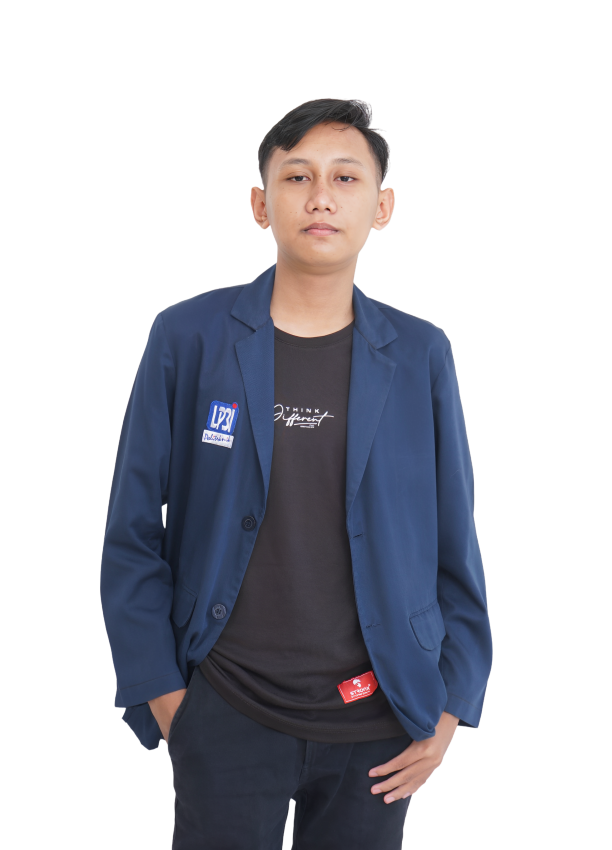
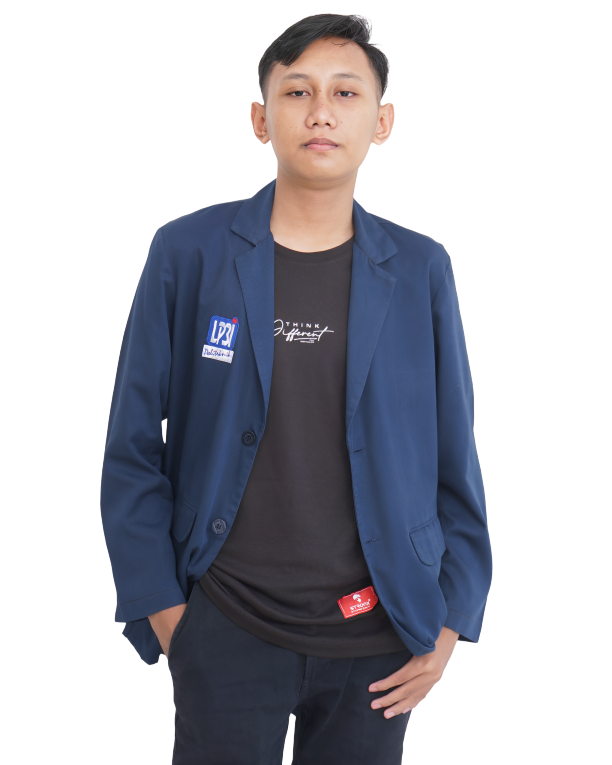
selesai membuat section hero dan header

Changed region(s): [[0.1552, 0.0, 0.8072, 0.9621], [0.5588, 0.5712, 0.5899, 0.7216], [0.4657, 0.932, 0.4967, 0.9621]]

diff --git a/src/pages/home.jsx b/src/pages/home.jsx
@@ -6,94 +6,107 @@ const HomePage = () => {
   return (
     <>
       <Navbar />
-      <section className="bg-second pt-20">
-        <div className="container">
-          <div className="flex">
-            <div className="relative w-full px-5 self-center">
-              <div className="w-full">
-                <h3 className="font-poppins font-medium text-2xl text-dark text-center">
-                  I'm{" "}
-                </h3>
-                <h1 className="font-poppins font-bold text-3xl text-accent text-wrap text-center">
-                  <span className="relative before:content-[''] before:absolute before:-bottom-1 before:w-full before:h-[3px] before:bg-primary">
-                    Gifari Fajar
-                  </span>{" "}
-                  Maulana
-                </h1>
-              </div>
-              <div className="relative mx-auto w-60 image-container">
-                <img src={my_photo1} alt="" className="w-full mx-auto" />
-              </div>
+      <section className="bg-second pt-24 lg:h-screen lg:pt-20">
+        <div className="container mx-auto lg:h-full">
+          <div className="relative w-full px-5 self-center md:px-10 lg:h-full lg:px-20 lg:flex xl:px-24">
+            <div className="w-full relative mb-5 text-center z-10 lg:w-1/2 lg:flex lg:flex-col lg:justify-end lg:text-left lg:pb-48 xl:pl-2">
+              <h3 className="font-poppins font-medium text-2xl text-dark lg:text-3xl lg:mb-3 xl:font-semibold xl:text-4xl">
+                I'm{" "}
+              </h3>
+              <h1 className="font-poppins font-bold text-3xl text-accent text-wrap md:text-4xl lg:text-5xl lg:tracking-wider xl:text-6xl">
+                Gifari Fajar Maulana
+              </h1>
+            </div>
+            <div className="hidden lg:block lg:absolute lg:top-72 lg:left-1/2 lg:-translate-x-1/2 lg:-translate-y-1/2 lg:z-0 xl:scale-125 xl:top-64 2xl:top-80">
+              <span>
+                <svg
+                  width={550}
+                  height={550}
+                  viewBox="0 0 200 200"
+                  xmlns="http://www.w3.org/2000/svg"
+                >
+                  <path
+                    fill="#F5F5F5"
+                    d="M71.7,-23.4C81.1,5.8,69,42,44.3,59.6C19.6,77.2,-17.6,76.3,-41.6,58.5C-65.6,40.8,-76.5,6.2,-67.4,-22.5C-58.2,-51.3,-29.1,-74.1,1,-74.5C31.1,-74.8,62.2,-52.6,71.7,-23.4Z"
+                    transform="translate(100 100)"
+                  />
+                </svg>
+              </span>
+            </div>
+            <div className="relative mx-auto w-60 image-container md:w-80 lg:w-[22rem] lg:absolute lg:bottom-0 lg:left-1/2 lg:-translate-x-1/2 lg:z-30 xl:w-[26rem]">
+              <img src={my_photo1} alt="" className="w-full relative mx-auto" />
+            </div>
 
-              <div className="w-full mx-auto mt-5 mb-10">
-                <p className="font-inter font-light text-sm">
-                  I am a junior front-end developer and third semester student
-                  majoring in information management, born in 2005, interested
-                  in creating clean and responsive web interfaces.
-                </p>
-                <button className="relative py-2 my-2 font-inter font-semibold text-lg text-accent flex items-center gap-2 before:content-[''] before:absolute before:bottom-1 before:w-0 before:bg-accent before:h-0.5 before:hover:w-full before:transition-all before:duration-300 before:ease-in-out">
-                  Show More
-                  <span className="fill-accent inline group-hover:opacity-80">
-                    <svg
-                      xmlns="http://www.w3.org/2000/svg"
-                      height="24px"
-                      viewBox="0 -960 960 960"
-                      width="24px"
-                    >
-                      <path d="m600-200-57-56 184-184H80v-80h647L544-704l56-56 280 280-280 280Z" />
-                    </svg>
-                  </span>
-                </button>
-                <div className="flex gap-3">
-                  <Link className="p-2 rounded-full bg-primary text-white hover:scale-110 transition duration-300 ease-in-out">
-                    <svg
-                      className="fill-current"
-                      width={19}
-                      role="img"
-                      viewBox="0 0 24 24"
-                      xmlns="http://www.w3.org/2000/svg"
-                    >
-                      <title>GitHub</title>
-                      <path d="M12 .297c-6.63 0-12 5.373-12 12 0 5.303 3.438 9.8 8.205 11.385.6.113.82-.258.82-.577 0-.285-.01-1.04-.015-2.04-3.338.724-4.042-1.61-4.042-1.61C4.422 18.07 3.633 17.7 3.633 17.7c-1.087-.744.084-.729.084-.729 1.205.084 1.838 1.236 1.838 1.236 1.07 1.835 2.809 1.305 3.495.998.108-.776.417-1.305.76-1.605-2.665-.3-5.466-1.332-5.466-5.93 0-1.31.465-2.38 1.235-3.22-.135-.303-.54-1.523.105-3.176 0 0 1.005-.322 3.3 1.23.96-.267 1.98-.399 3-.405 1.02.006 2.04.138 3 .405 2.28-1.552 3.285-1.23 3.285-1.23.645 1.653.24 2.873.12 3.176.765.84 1.23 1.91 1.23 3.22 0 4.61-2.805 5.625-5.475 5.92.42.36.81 1.096.81 2.22 0 1.606-.015 2.896-.015 3.286 0 .315.21.69.825.57C20.565 22.092 24 17.592 24 12.297c0-6.627-5.373-12-12-12" />
-                    </svg>
-                  </Link>
-                  <Link className="p-2 rounded-full bg-primary text-white hover:scale-110 transition duration-300 ease-in-out">
-                    <svg
-                      className="fill-current"
-                      width={19}
-                      role="img"
-                      viewBox="0 0 24 24"
-                      xmlns="http://www.w3.org/2000/svg"
-                    >
-                      <title>WhatsApp</title>
-                      <path d="M17.472 14.382c-.297-.149-1.758-.867-2.03-.967-.273-.099-.471-.148-.67.15-.197.297-.767.966-.94 1.164-.173.199-.347.223-.644.075-.297-.15-1.255-.463-2.39-1.475-.883-.788-1.48-1.761-1.653-2.059-.173-.297-.018-.458.13-.606.134-.133.298-.347.446-.52.149-.174.198-.298.298-.497.099-.198.05-.371-.025-.52-.075-.149-.669-1.612-.916-2.207-.242-.579-.487-.5-.669-.51-.173-.008-.371-.01-.57-.01-.198 0-.52.074-.792.372-.272.297-1.04 1.016-1.04 2.479 0 1.462 1.065 2.875 1.213 3.074.149.198 2.096 3.2 5.077 4.487.709.306 1.262.489 1.694.625.712.227 1.36.195 1.871.118.571-.085 1.758-.719 2.006-1.413.248-.694.248-1.289.173-1.413-.074-.124-.272-.198-.57-.347m-5.421 7.403h-.004a9.87 9.87 0 01-5.031-1.378l-.361-.214-3.741.982.998-3.648-.235-.374a9.86 9.86 0 01-1.51-5.26c.001-5.45 4.436-9.884 9.888-9.884 2.64 0 5.122 1.03 6.988 2.898a9.825 9.825 0 012.893 6.994c-.003 5.45-4.437 9.884-9.885 9.884m8.413-18.297A11.815 11.815 0 0012.05 0C5.495 0 .16 5.335.157 11.892c0 2.096.547 4.142 1.588 5.945L.057 24l6.305-1.654a11.882 11.882 0 005.683 1.448h.005c6.554 0 11.89-5.335 11.893-11.893a11.821 11.821 0 00-3.48-8.413Z" />
-                    </svg>
-                  </Link>
-                  <Link className="p-2 rounded-full bg-primary text-white hover:scale-110 transition duration-300 ease-in-out">
-                    <svg
-                      className="fill-current"
-                      width={19}
-                      role="img"
-                      viewBox="0 0 24 24"
-                      xmlns="http://www.w3.org/2000/svg"
-                    >
-                      <title>Instagram</title>
-                      <path d="M7.0301.084c-1.2768.0602-2.1487.264-2.911.5634-.7888.3075-1.4575.72-2.1228 1.3877-.6652.6677-1.075 1.3368-1.3802 2.127-.2954.7638-.4956 1.6365-.552 2.914-.0564 1.2775-.0689 1.6882-.0626 4.947.0062 3.2586.0206 3.6671.0825 4.9473.061 1.2765.264 2.1482.5635 2.9107.308.7889.72 1.4573 1.388 2.1228.6679.6655 1.3365 1.0743 2.1285 1.38.7632.295 1.6361.4961 2.9134.552 1.2773.056 1.6884.069 4.9462.0627 3.2578-.0062 3.668-.0207 4.9478-.0814 1.28-.0607 2.147-.2652 2.9098-.5633.7889-.3086 1.4578-.72 2.1228-1.3881.665-.6682 1.0745-1.3378 1.3795-2.1284.2957-.7632.4966-1.636.552-2.9124.056-1.2809.0692-1.6898.063-4.948-.0063-3.2583-.021-3.6668-.0817-4.9465-.0607-1.2797-.264-2.1487-.5633-2.9117-.3084-.7889-.72-1.4568-1.3876-2.1228C21.2982 1.33 20.628.9208 19.8378.6165 19.074.321 18.2017.1197 16.9244.0645 15.6471.0093 15.236-.005 11.977.0014 8.718.0076 8.31.0215 7.0301.0839m.1402 21.6932c-1.17-.0509-1.8053-.2453-2.2287-.408-.5606-.216-.96-.4771-1.3819-.895-.422-.4178-.6811-.8186-.9-1.378-.1644-.4234-.3624-1.058-.4171-2.228-.0595-1.2645-.072-1.6442-.079-4.848-.007-3.2037.0053-3.583.0607-4.848.05-1.169.2456-1.805.408-2.2282.216-.5613.4762-.96.895-1.3816.4188-.4217.8184-.6814 1.3783-.9003.423-.1651 1.0575-.3614 2.227-.4171 1.2655-.06 1.6447-.072 4.848-.079 3.2033-.007 3.5835.005 4.8495.0608 1.169.0508 1.8053.2445 2.228.408.5608.216.96.4754 1.3816.895.4217.4194.6816.8176.9005 1.3787.1653.4217.3617 1.056.4169 2.2263.0602 1.2655.0739 1.645.0796 4.848.0058 3.203-.0055 3.5834-.061 4.848-.051 1.17-.245 1.8055-.408 2.2294-.216.5604-.4763.96-.8954 1.3814-.419.4215-.8181.6811-1.3783.9-.4224.1649-1.0577.3617-2.2262.4174-1.2656.0595-1.6448.072-4.8493.079-3.2045.007-3.5825-.006-4.848-.0608M16.953 5.5864A1.44 1.44 0 1 0 18.39 4.144a1.44 1.44 0 0 0-1.437 1.4424M5.8385 12.012c.0067 3.4032 2.7706 6.1557 6.173 6.1493 3.4026-.0065 6.157-2.7701 6.1506-6.1733-.0065-3.4032-2.771-6.1565-6.174-6.1498-3.403.0067-6.156 2.771-6.1496 6.1738M8 12.0077a4 4 0 1 1 4.008 3.9921A3.9996 3.9996 0 0 1 8 12.0077" />
-                    </svg>
-                  </Link>
-                  <Link className="p-2 rounded-full bg-primary text-white hover:scale-110 transition duration-300 ease-in-out">
-                    <svg
-                      className="fill-current"
-                      width={19}
-                      role="img"
-                      viewBox="0 0 24 24"
-                      xmlns="http://www.w3.org/2000/svg"
-                    >
-                      <title>LinkedIn</title>
-                      <path d="M20.447 20.452h-3.554v-5.569c0-1.328-.027-3.037-1.852-3.037-1.853 0-2.136 1.445-2.136 2.939v5.667H9.351V9h3.414v1.561h.046c.477-.9 1.637-1.85 3.37-1.85 3.601 0 4.267 2.37 4.267 5.455v6.286zM5.337 7.433c-1.144 0-2.063-.926-2.063-2.065 0-1.138.92-2.063 2.063-2.063 1.14 0 2.064.925 2.064 2.063 0 1.139-.925 2.065-2.064 2.065zm1.782 13.019H3.555V9h3.564v11.452zM22.225 0H1.771C.792 0 0 .774 0 1.729v20.542C0 23.227.792 24 1.771 24h20.451C23.2 24 24 23.227 24 22.271V1.729C24 .774 23.2 0 22.222 0h.003z" />
-                    </svg>
-                  </Link>
-                </div>
+            <div className="w-full mx-auto mt-5 mb-10 z-10 lg:w-1/2 lg:pt-10 lg:pl-28 lg:mx-0 xl:pt-5 xl:pl-44">
+              <p className="font-inter font-light text-sm text-dark md:text-base md:font-medium lg:text-sm xl:text-base">
+                A junior front-end Developer with a keen interest in developing
+                clean and responsive web interfaces. A third semester student
+                majoring in informatics management. I am passionate about
+                learning new technologies and am always eager to implement
+                creative ideas into digital solutions.
+              </p>
+              <button className="relative py-2 mt-0 mb-2 font-inter font-semibold text-lg text-accent flex items-center gap-2 before:content-[''] before:absolute before:bottom-1 before:w-0 before:bg-accent before:h-0.5 before:hover:w-full before:transition-all before:duration-300 before:ease-in-out md:text-xl lg:text-lg lg:before:h-1 lg:mb-3">
+                Show More
+                <span className="fill-accent block group-hover:opacity-80 md:scale-110 lg:scale-100">
+                  <svg
+                    xmlns="http://www.w3.org/2000/svg"
+                    height="24px"
+                    viewBox="0 -960 960 960"
+                    width="24px"
+                  >
+                    <path d="m600-200-57-56 184-184H80v-80h647L544-704l56-56 280 280-280 280Z" />
+                  </svg>
+                </span>
+              </button>
+              <div className="flex gap-3 md:gap-5 xl:gap-7">
+                <Link className="sosmed-icon">
+                  <svg
+                    className="fill-current md:w-6 lg:w-5 xl:w-6"
+                    width={19}
+                    role="img"
+                    viewBox="0 0 24 24"
+                    xmlns="http://www.w3.org/2000/svg"
+                  >
+                    <title>GitHub</title>
+                    <path d="M12 .297c-6.63 0-12 5.373-12 12 0 5.303 3.438 9.8 8.205 11.385.6.113.82-.258.82-.577 0-.285-.01-1.04-.015-2.04-3.338.724-4.042-1.61-4.042-1.61C4.422 18.07 3.633 17.7 3.633 17.7c-1.087-.744.084-.729.084-.729 1.205.084 1.838 1.236 1.838 1.236 1.07 1.835 2.809 1.305 3.495.998.108-.776.417-1.305.76-1.605-2.665-.3-5.466-1.332-5.466-5.93 0-1.31.465-2.38 1.235-3.22-.135-.303-.54-1.523.105-3.176 0 0 1.005-.322 3.3 1.23.96-.267 1.98-.399 3-.405 1.02.006 2.04.138 3 .405 2.28-1.552 3.285-1.23 3.285-1.23.645 1.653.24 2.873.12 3.176.765.84 1.23 1.91 1.23 3.22 0 4.61-2.805 5.625-5.475 5.92.42.36.81 1.096.81 2.22 0 1.606-.015 2.896-.015 3.286 0 .315.21.69.825.57C20.565 22.092 24 17.592 24 12.297c0-6.627-5.373-12-12-12" />
+                  </svg>
+                </Link>
+                <Link className="sosmed-icon">
+                  <svg
+                    className="fill-current md:w-6 lg:w-5 xl:w-6"
+                    width={19}
+                    role="img"
+                    viewBox="0 0 24 24"
+                    xmlns="http://www.w3.org/2000/svg"
+                  >
+                    <title>WhatsApp</title>
+                    <path d="M17.472 14.382c-.297-.149-1.758-.867-2.03-.967-.273-.099-.471-.148-.67.15-.197.297-.767.966-.94 1.164-.173.199-.347.223-.644.075-.297-.15-1.255-.463-2.39-1.475-.883-.788-1.48-1.761-1.653-2.059-.173-.297-.018-.458.13-.606.134-.133.298-.347.446-.52.149-.174.198-.298.298-.497.099-.198.05-.371-.025-.52-.075-.149-.669-1.612-.916-2.207-.242-.579-.487-.5-.669-.51-.173-.008-.371-.01-.57-.01-.198 0-.52.074-.792.372-.272.297-1.04 1.016-1.04 2.479 0 1.462 1.065 2.875 1.213 3.074.149.198 2.096 3.2 5.077 4.487.709.306 1.262.489 1.694.625.712.227 1.36.195 1.871.118.571-.085 1.758-.719 2.006-1.413.248-.694.248-1.289.173-1.413-.074-.124-.272-.198-.57-.347m-5.421 7.403h-.004a9.87 9.87 0 01-5.031-1.378l-.361-.214-3.741.982.998-3.648-.235-.374a9.86 9.86 0 01-1.51-5.26c.001-5.45 4.436-9.884 9.888-9.884 2.64 0 5.122 1.03 6.988 2.898a9.825 9.825 0 012.893 6.994c-.003 5.45-4.437 9.884-9.885 9.884m8.413-18.297A11.815 11.815 0 0012.05 0C5.495 0 .16 5.335.157 11.892c0 2.096.547 4.142 1.588 5.945L.057 24l6.305-1.654a11.882 11.882 0 005.683 1.448h.005c6.554 0 11.89-5.335 11.893-11.893a11.821 11.821 0 00-3.48-8.413Z" />
+                  </svg>
+                </Link>
+                <Link className="sosmed-icon">
+                  <svg
+                    className="fill-current md:w-6 lg:w-5 xl:w-6"
+                    width={19}
+                    role="img"
+                    viewBox="0 0 24 24"
+                    xmlns="http://www.w3.org/2000/svg"
+                  >
+                    <title>Instagram</title>
+                    <path d="M7.0301.084c-1.2768.0602-2.1487.264-2.911.5634-.7888.3075-1.4575.72-2.1228 1.3877-.6652.6677-1.075 1.3368-1.3802 2.127-.2954.7638-.4956 1.6365-.552 2.914-.0564 1.2775-.0689 1.6882-.0626 4.947.0062 3.2586.0206 3.6671.0825 4.9473.061 1.2765.264 2.1482.5635 2.9107.308.7889.72 1.4573 1.388 2.1228.6679.6655 1.3365 1.0743 2.1285 1.38.7632.295 1.6361.4961 2.9134.552 1.2773.056 1.6884.069 4.9462.0627 3.2578-.0062 3.668-.0207 4.9478-.0814 1.28-.0607 2.147-.2652 2.9098-.5633.7889-.3086 1.4578-.72 2.1228-1.3881.665-.6682 1.0745-1.3378 1.3795-2.1284.2957-.7632.4966-1.636.552-2.9124.056-1.2809.0692-1.6898.063-4.948-.0063-3.2583-.021-3.6668-.0817-4.9465-.0607-1.2797-.264-2.1487-.5633-2.9117-.3084-.7889-.72-1.4568-1.3876-2.1228C21.2982 1.33 20.628.9208 19.8378.6165 19.074.321 18.2017.1197 16.9244.0645 15.6471.0093 15.236-.005 11.977.0014 8.718.0076 8.31.0215 7.0301.0839m.1402 21.6932c-1.17-.0509-1.8053-.2453-2.2287-.408-.5606-.216-.96-.4771-1.3819-.895-.422-.4178-.6811-.8186-.9-1.378-.1644-.4234-.3624-1.058-.4171-2.228-.0595-1.2645-.072-1.6442-.079-4.848-.007-3.2037.0053-3.583.0607-4.848.05-1.169.2456-1.805.408-2.2282.216-.5613.4762-.96.895-1.3816.4188-.4217.8184-.6814 1.3783-.9003.423-.1651 1.0575-.3614 2.227-.4171 1.2655-.06 1.6447-.072 4.848-.079 3.2033-.007 3.5835.005 4.8495.0608 1.169.0508 1.8053.2445 2.228.408.5608.216.96.4754 1.3816.895.4217.4194.6816.8176.9005 1.3787.1653.4217.3617 1.056.4169 2.2263.0602 1.2655.0739 1.645.0796 4.848.0058 3.203-.0055 3.5834-.061 4.848-.051 1.17-.245 1.8055-.408 2.2294-.216.5604-.4763.96-.8954 1.3814-.419.4215-.8181.6811-1.3783.9-.4224.1649-1.0577.3617-2.2262.4174-1.2656.0595-1.6448.072-4.8493.079-3.2045.007-3.5825-.006-4.848-.0608M16.953 5.5864A1.44 1.44 0 1 0 18.39 4.144a1.44 1.44 0 0 0-1.437 1.4424M5.8385 12.012c.0067 3.4032 2.7706 6.1557 6.173 6.1493 3.4026-.0065 6.157-2.7701 6.1506-6.1733-.0065-3.4032-2.771-6.1565-6.174-6.1498-3.403.0067-6.156 2.771-6.1496 6.1738M8 12.0077a4 4 0 1 1 4.008 3.9921A3.9996 3.9996 0 0 1 8 12.0077" />
+                  </svg>
+                </Link>
+                <Link className="sosmed-icon">
+                  <svg
+                    className="fill-current md:w-6 lg:w-5 xl:w-6"
+                    width={19}
+                    role="img"
+                    viewBox="0 0 24 24"
+                    xmlns="http://www.w3.org/2000/svg"
+                  >
+                    <title>LinkedIn</title>
+                    <path d="M20.447 20.452h-3.554v-5.569c0-1.328-.027-3.037-1.852-3.037-1.853 0-2.136 1.445-2.136 2.939v5.667H9.351V9h3.414v1.561h.046c.477-.9 1.637-1.85 3.37-1.85 3.601 0 4.267 2.37 4.267 5.455v6.286zM5.337 7.433c-1.144 0-2.063-.926-2.063-2.065 0-1.138.92-2.063 2.063-2.063 1.14 0 2.064.925 2.064 2.063 0 1.139-.925 2.065-2.064 2.065zm1.782 13.019H3.555V9h3.564v11.452zM22.225 0H1.771C.792 0 0 .774 0 1.729v20.542C0 23.227.792 24 1.771 24h20.451C23.2 24 24 23.227 24 22.271V1.729C24 .774 23.2 0 22.222 0h.003z" />
+                  </svg>
+                </Link>
               </div>
             </div>
           </div>

diff --git a/src/index.css b/src/index.css
@@ -7,11 +7,11 @@ body {
 }
 
 .hamburger-line {
-  @apply h-[2.5px] block bg-dark group-hover:scale-110 transition duration-300 ease-in-out;
+  @apply h-[2.5px] block bg-primary group-hover:scale-110 transition duration-300 ease-in-out;
 }
 
 .navbar-menu-list {
-  @apply relative font-semibold text-lg text-dark before:content-['.'] hover:text-accent hover:scale-105 transition ease-in-out duration-300 before:absolute before:-bottom-1 before:left-0 before:right-0 before:w-0 before:h-[2.5px] before:mx-auto before:text-transparent before:bg-accent hover:before:w-full before:transition-all before:duration-300 before:ease-out;
+  @apply relative font-semibold text-lg text-dark before:content-['.'] hover:text-accent hover:scale-110 transition ease-in-out duration-300 before:absolute before:-bottom-1 before:left-0 before:right-0 before:w-0 before:h-[2.5px] before:mx-auto before:text-transparent before:bg-accent hover:before:w-full before:transition-all before:duration-300 before:ease-out before:delay-300;
 }
 
 .light-nonactive {
@@ -33,5 +33,14 @@ body {
   left: 0;
   right: 0;
   height: 50px; /* Sesuaikan tinggi gradien */
-  background: linear-gradient(to bottom, rgba(255, 255, 255, 0) 0%, rgba(240, 240, 240, 1) 100%);
+  background: linear-gradient(
+    to bottom,
+    rgba(255, 255, 255, 0) 0%,
+    rgba(240, 240, 240, 1) 100%
+  );
+  z-index: 20;
+}
+
+.sosmed-icon {
+  @apply p-2 rounded-full bg-primary text-white hover:scale-110 transition duration-300 ease-in-out;
 }

diff --git a/src/components/layout/Navbar.jsx b/src/components/layout/Navbar.jsx
@@ -11,8 +11,8 @@ const Navbar = () => {
 
   return (
     <header className="bg-transparent absolute top-0 w-full">
-      <div className="container">
-        <div className="w-full px-4 py-4 flex justify-between items-center lg:px-20 lg:py-5 xl:px-28">
+      <div className="container mx-auto">
+        <div className="w-full px-4 py-4 flex justify-between items-center md:px-10 lg:px-20 lg:py-5 xl:px-24">
           <div className="w-[90%] h-full flex lg:justify-between lg:items-center">
             <div className="flex items-center">
               <h2 className="font-bold font-poppins text-2xl text-primary xl:text-3xl">
@@ -21,7 +21,7 @@ const Navbar = () => {
             </div>
 
             <div
-              className="hidden absolute right-5 top-14 px-10 py-5 rounded-lg bg-light shadow-md shadow-gray-500 lg:relative lg:right-0 lg:top-0 lg:p-0 lg:shadow-none lg:block lg:bg-transparent z-50"
+              className="hidden absolute right-5 top-14 px-10 py-5 rounded-lg bg-light shadow-md shadow-gray-500 md:right-12 lg:relative lg:right-0 lg:top-0 lg:p-0 lg:shadow-none lg:block lg:bg-transparent z-50"
               ref={navabarMenuRef}
             >
               <ul className="flex flex-col gap-5 items-center lg:flex-row lg:gap-12 xl:gap-14">

diff --git a/tailwind.config.js b/tailwind.config.js
@@ -1,3 +1,5 @@
+import autoprefixer from "autoprefixer";
+
 /** @type {import('tailwindcss').Config} */
 export default {
   content: ["./index.html", "./src/**/*.{js,ts,jsx,tsx}"],
@@ -16,5 +18,5 @@ export default {
       },
     },
   },
-  plugins: [],
+  plugins: [autoprefixer],
 };

diff --git a/src/components/elements/heroSection/HeroHeader.jsx b/src/components/elements/heroSection/HeroHeader.jsx
@@ -1,0 +1,11 @@
+const HeroHeader = () => {
+  return (
+    <>
+      <h1 className="font-poppins font-bold text-3xl text-accent text-wrap md:text-4xl lg:text-5xl lg:tracking-wider xl:text-6xl">
+        Gifari Fajar Maulana
+      </h1>
+    </>
+  );
+};
+
+export default HeroHeader;
